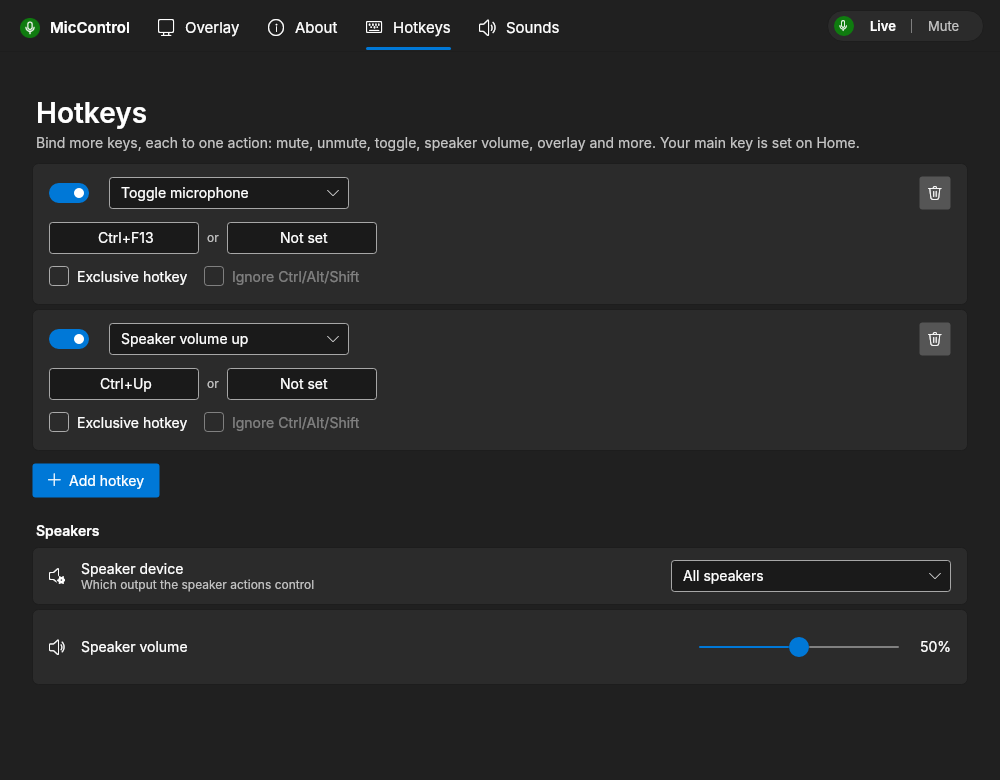
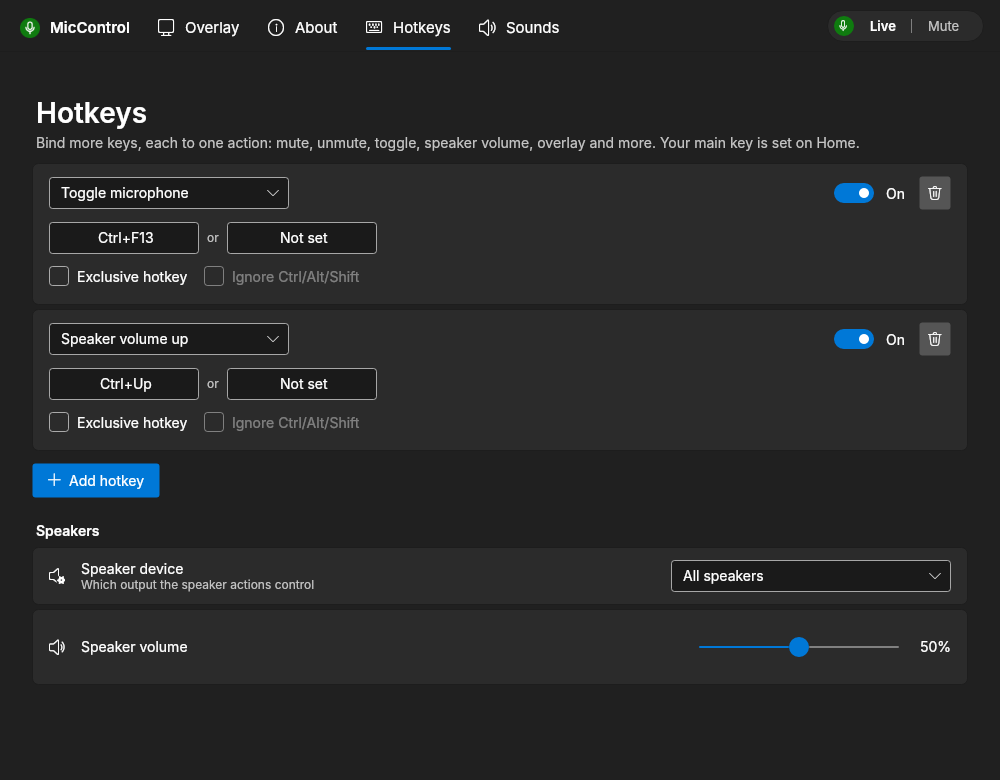
Screenshots from a worktree; regenerate them for the polish
- ScreenshotTests finds the repository root by a .git file or folder, so it also works in a git worktree
- README screenshots regenerated (About kept)

diff --git a/Sources/MicControl.Tests/Ui/ScreenshotTests.cs b/Sources/MicControl.Tests/Ui/ScreenshotTests.cs
@@ -137,7 +137,8 @@ public sealed class ScreenshotTests
     {
         for (var dir = new DirectoryInfo(AppContext.BaseDirectory); dir is not null; dir = dir.Parent)
         {
-            if (Directory.Exists(Path.Combine(dir.FullName, ".git")))
+            // A worktree has a .git file instead of a folder.
+            if (Path.Exists(Path.Combine(dir.FullName, ".git")))
             {
                 return dir.FullName;
             }
